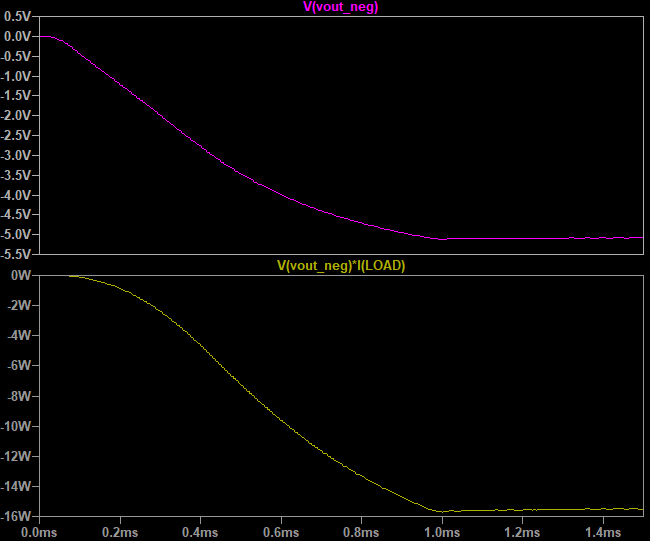
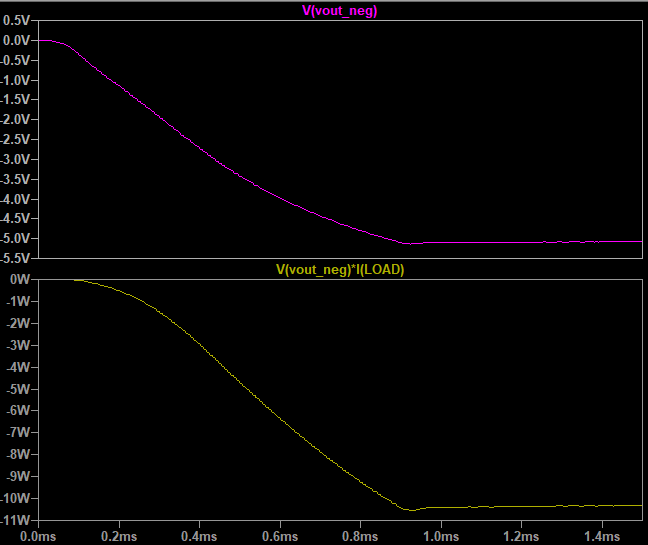
chore: update

diff --git a/PSU_DCDC_BuckBoost_NonIso_INV_NonSync_LTC3863/README.md b/PSU_DCDC_BuckBoost_NonIso_INV_NonSync_LTC3863/README.md
@@ -1,9 +1,9 @@
 ## Buck-Boost DC-DC Converter, Non-Isolated, Inverting, Non-Synchronous, Base on LTC3863
-Note: Default applications from LTspice for exercise
+Note: The design is from the datasheet.  
 
 ### Features
-- **Output:** -5V/15W
-- **Input:** 12V
+- **Output:** -5V/10W
+- **Input:** 7V to 16V
 - **Peak Current Mode Control**
 - **Controller:** LTC3863
 

diff --git a/PSU_DCDC_BuckBoost_NonIso_INV_NonSync_LTC3863/Simulate/ReadMe.md b/PSU_DCDC_BuckBoost_NonIso_INV_NonSync_LTC3863/Simulate/ReadMe.md
@@ -1,6 +1,6 @@
 ### v1.0.asc
-- Output: -5V/15W
-- Input: 12V
+- Output: -5V/10W
+- Input: 7V to 16V
 - Default applications of datasheet
 - [LTspice Personal Libraries](https://github.com/AliRezaJoodi/Electronics_Exercises/tree/main/_LTspice_Library) 
 - Saved in **LTspice Version 24.1.10**
